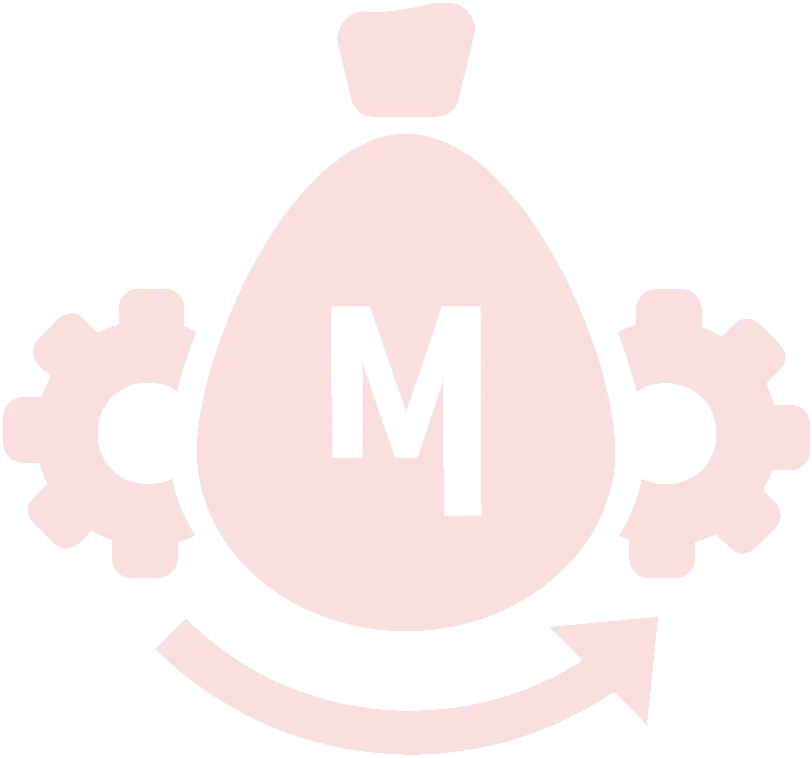
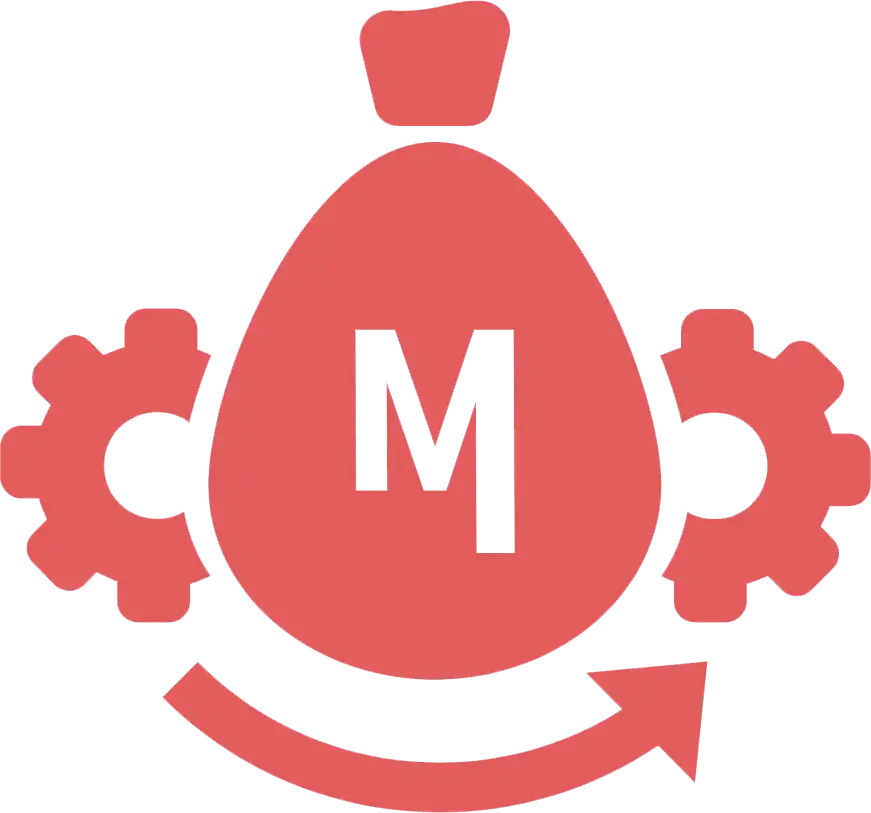
feat: Update images for home page - MEED-2061 - Meeds-io/MIPs#48 (#490)
This change will update the images used in the home page.

diff --git a/deeds-dapp-webapp/src/main/webapp/vue-app/dapp/staticPage/components/page/productTour.vue b/deeds-dapp-webapp/src/main/webapp/vue-app/dapp/staticPage/components/page/productTour.vue
@@ -71,9 +71,9 @@
           <span :class="textColor" class="mt-10 mb-5 mb-md-0 text-h5 font-weight-light">{{ $t('contributionPrograms.description') }}</span>
           <div class="position-absolute">
             <v-img
-              :src="`${parentLocation}/static/images/contribution_icon.png`"
+              :src="`${parentLocation}/static/images/contribution_icon.webp`"
               max-width="275px"
-              class="contribution-icon"
+              class="contribution-icon low-opacity"
               alt=""
               contain
               eager />    
@@ -104,9 +104,9 @@
           <span :class="textColor" class="text-h5 font-weight-light mt-10 mb-5 mb-md-0">{{ $t('rewards.description') }}</span>
           <div class="position-absolute">
             <v-img
-              :src="`${parentLocation}/static/images/reward_icon.png`"
+              :src="`${parentLocation}/static/images/reward_icon.webp`"
               max-width="236px"
-              class="reward-icon"
+              class="reward-icon low-opacity"
               alt=""
               contain
               eager />    
@@ -119,9 +119,9 @@
           <span :class="textColor" class="text-h5 font-weight-light mt-10 mb-5 mb-md-0">{{ $t('overview.description') }}</span>
           <div class="position-absolute">
             <v-img
-              :src="`${parentLocation}/static/images/overview_icon.png`"
+              :src="`${parentLocation}/static/images/overview_icon.webp`"
               max-width="330px"
-              class="overview-icon"
+              class="overview-icon low-opacity"
               alt=""
               contain
               eager />    
@@ -152,9 +152,9 @@
           <span :class="textColor" class="text-h5 font-weight-light mt-10 mb-5 mb-md-0">{{ $t('perks.description') }}</span>
           <div class="position-absolute">
             <v-img
-              :src="`${parentLocation}/static/images/perks_icon.png`"
+              :src="`${parentLocation}/static/images/perks_icon.webp`"
               max-width="400px"
-              class="perks-icon"
+              class="perks-icon low-opacity"
               alt=""
               contain
               eager />    
@@ -167,9 +167,9 @@
           <span :class="textColor" class="text-h5 font-weight-light mt-10 mb-5 mb-md-0">{{ $t('teamwork.description') }}</span>
           <div class="position-absolute">
             <v-img
-              :src="`${parentLocation}/static/images/teamwork_icon.png`"
+              :src="`${parentLocation}/static/images/teamwork_icon.webp`"
               max-width="298px"
-              class="teamwork-icon"
+              class="teamwork-icon low-opacity"
               alt=""
               contain
               eager />    

diff --git a/deeds-dapp-webapp/src/main/webapp/vue-app/dapp/staticPage/components/page/Whitepaper.vue b/deeds-dapp-webapp/src/main/webapp/vue-app/dapp/staticPage/components/page/Whitepaper.vue
@@ -235,11 +235,11 @@
             <span :class="textColor" class="ps-0 py-2 text-h5 font-weight-light">{{ $t('investCapital.descriptionPart4') }}</span>
             <span :class="textColor" class="ps-0 pt-2 pb-7 text-h5 font-weight-light">{{ $t('investCapital.descriptionPart5') }}</span>
           </div>
-          <div class="position-absolute d-none">
+          <div class="position-absolute">
             <v-img
               :src="`${parentLocation}/static/images/invest_image.webp`"
               max-width="288px"
-              class="invest-image"
+              class="invest-image low-opacity"
               alt=""
               contain
               eager />    
